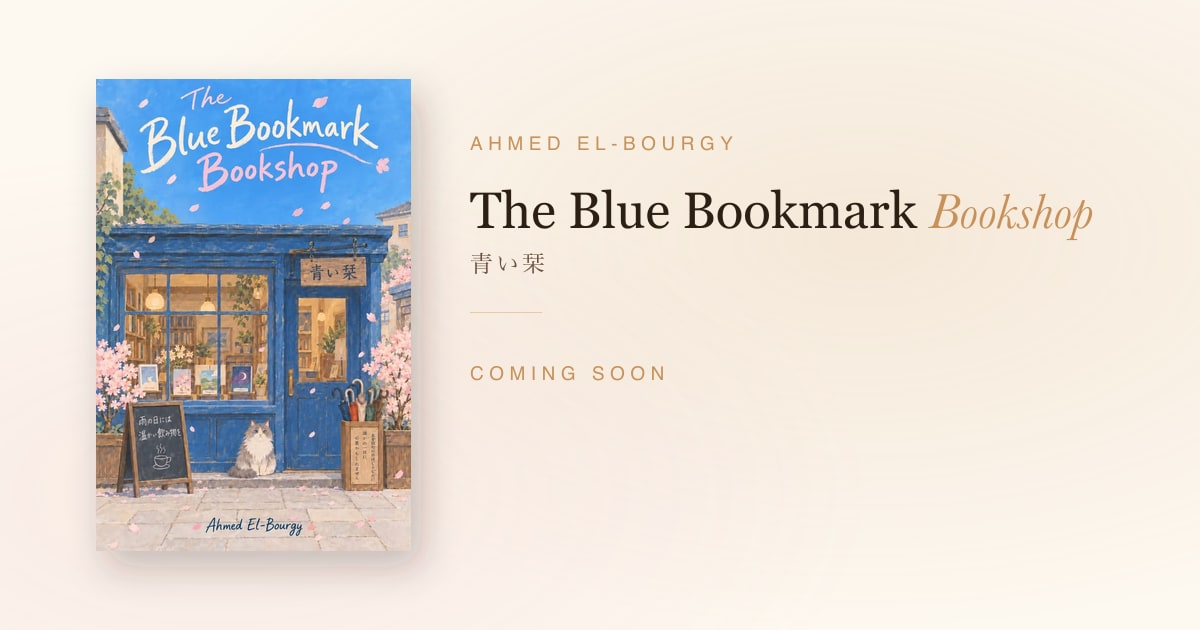
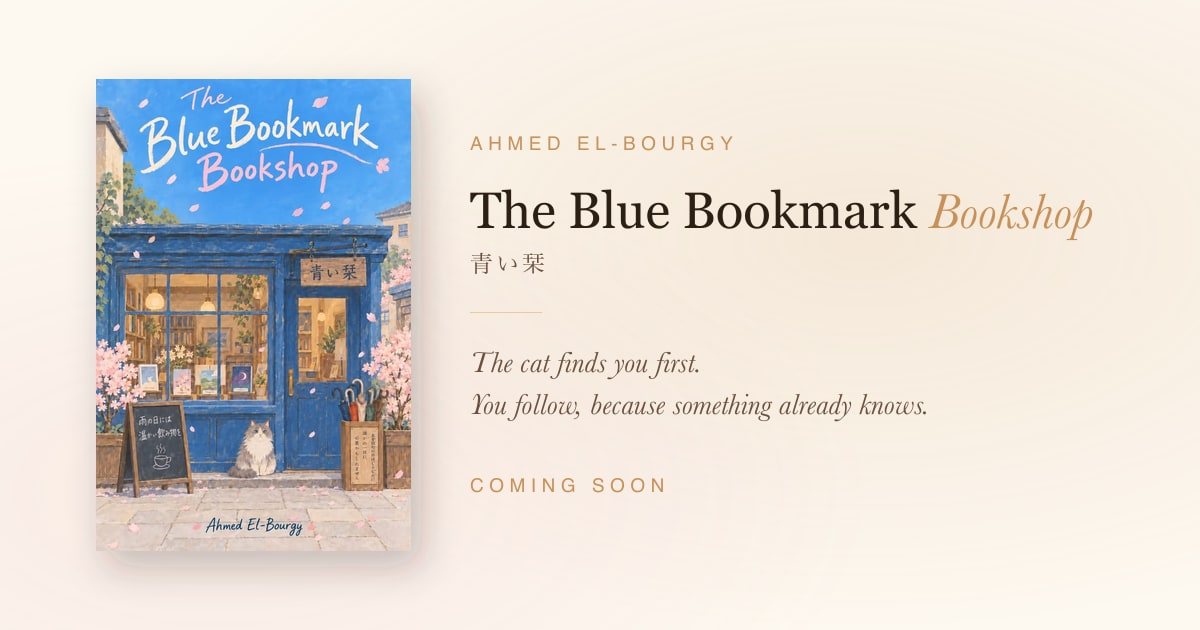
Add the synopsis for The Blue Bookmark Bookshop
The author's text, verbatim, in the four places that were deliberately left
empty: the book page, the card blurbs, the metadata and structured data, and
the ARC email.

- Full synopsis on the book page under "Aoi Shiori"
- Card blurb, the about-page one-liner and the social-card hook are all
  excerpted from it rather than paraphrased
- "Please return the umbrella. Someone else might need their day." closes the
  page, set apart in the book's cobalt. This also corrects the ARC email,
  which had been carrying my own translation of that sign off the cover art.

The ARC email now opens with the attachment and then gives the book's own
words in a quoted block, so the only prose I wrote in it is the logistics:
what is attached, what is being asked, how to open an EPUB, and how to check
the mail really came from him.

One layout note: a sunk initial needs a first paragraph long enough to wrap
around it. This synopsis opens on a single short line, where the sink pushes
the *second* paragraph sideways instead — so that line gets .prose-hook, a
larger display treatment, and the page carries no drop cap. The caveat is
written next to the .prose--lead rule so the next book does not hit it.

Changed region(s): [[0.4008, 0.6333, 0.7708, 0.6635], [0.37, 0.5429, 0.5858, 0.6032], [0.37, 0.754, 0.555, 0.7841]]

diff --git a/the-blue-bookmark-bookshop.html b/the-blue-bookmark-bookshop.html
@@ -5,7 +5,7 @@
 <meta name="viewport" content="width=device-width, initial-scale=1">
 
 <title>The Blue Bookmark Bookshop — coming soon from Ahmed El-Bourgy</title>
-<meta name="description" content="The Blue Bookmark Bookshop (青い栞), the next book from Ahmed El-Bourgy. Coming soon.">
+<meta name="description" content="The Blue Bookmark Bookshop (青い栞) by Ahmed El-Bourgy. A little bookshop that wasn’t there yesterday and won’t be there tomorrow. Coming soon.">
 <meta name="author" content="Ahmed El-Bourgy">
 <meta name="theme-color" content="#fdf8f0">
 <link rel="canonical" href="https://ahmedwalid4499.github.io/my-Author-website/the-blue-bookmark-bookshop.html">
@@ -13,7 +13,7 @@
 <meta property="og:type" content="book">
 <meta property="og:site_name" content="Ahmed El-Bourgy">
 <meta property="og:title" content="The Blue Bookmark Bookshop — coming soon from Ahmed El-Bourgy">
-<meta property="og:description" content="The next book from Ahmed El-Bourgy. Coming soon.">
+<meta property="og:description" content="The cat finds you first. He leads you to Aoi Shiori, a little bookshop that wasn’t there yesterday and won’t be there tomorrow.">
 <meta property="og:url" content="https://ahmedwalid4499.github.io/my-Author-website/the-blue-bookmark-bookshop.html">
 <meta property="og:image" content="https://ahmedwalid4499.github.io/my-Author-website/assets/img/og/og-the-blue-bookmark-bookshop.jpg">
 <meta property="og:image:width" content="1200">
@@ -23,7 +23,7 @@
 
 <meta name="twitter:card" content="summary_large_image">
 <meta name="twitter:title" content="The Blue Bookmark Bookshop — coming soon">
-<meta name="twitter:description" content="The next book from Ahmed El-Bourgy. Coming soon.">
+<meta name="twitter:description" content="The cat finds you first. He leads you to a bookshop that wasn’t there yesterday and won’t be there tomorrow.">
 <meta name="twitter:image" content="https://ahmedwalid4499.github.io/my-Author-website/assets/img/og/og-the-blue-bookmark-bookshop.jpg">
 
 <link rel="icon" href="favicon.ico" sizes="32x32">
@@ -119,6 +119,24 @@
           <span class="book-meta__item"><span class="book-meta__label">Japanese</span> <span class="jp">青い栞</span></span>
         </div>
       </div>
+    </div>
+  </section>
+
+  <!-- ============================================ SYNOPSIS -->
+  <section class="section" aria-labelledby="synopsis-heading">
+    <div class="wrap wrap--mid">
+      <div class="section__head fade-in">
+        <p class="eyebrow">About the book</p>
+        <h2 class="display-2" id="synopsis-heading">Aoi <em>Shiori</em></h2>
+      </div>
+      <p class="prose-hook fade-in">The cat finds you first.</p>
+      <div class="prose fade-in mt-md">
+        <p>Grey and white, one blue eye and one green, and absolutely no patience. He meows once, like an order, and walks away. You follow, because something in you already knows you should.</p>
+        <p>He leads you to Aoi Shiori, a little bookshop that wasn’t there yesterday and won’t be there tomorrow. The light inside is warm. Its owner, Mirai, smiles as if she has been waiting for you all day. And from a sky without a single cloud, it begins to rain.</p>
+        <p>Everyone who finds this place has lost something along the way. A dream. A goodbye. A piece of themselves. Mirai never asks which. She pours you something warm, and before you go, she asks you to take an umbrella from the box by the door.</p>
+        <p>Step beneath it, and the rain falls silent.</p>
+      </div>
+      <p class="pullquote pullquote--center fade-in">Please return the umbrella.<br>Someone else might need their day.</p>
     </div>
   </section>
 
@@ -374,6 +392,7 @@
       "author": { "@id": "https://ahmedwalid4499.github.io/my-Author-website/#person" },
       "inLanguage": "en",
       "image": "https://ahmedwalid4499.github.io/my-Author-website/assets/img/covers/the-blue-bookmark-bookshop-900.jpg",
+      "description": "The cat finds you first. He leads you to Aoi Shiori, a little bookshop that wasn’t there yesterday and won’t be there tomorrow. Everyone who finds this place has lost something along the way.",
       "url": "https://ahmedwalid4499.github.io/my-Author-website/the-blue-bookmark-bookshop.html"
     },
     {

diff --git a/assets/css/site.css b/assets/css/site.css
@@ -1405,6 +1405,22 @@ a { color: var(--gold-deep); }
    sits high and the wrap indents wrongly. Where initial-letter is missing
    (Firefox today) the letter simply renders at text size in the accent
    colour, which is a clean fallback rather than a broken one. */
+/* An opening line that carries a synopsis on its own, where the first
+   paragraph is too short to wrap around a sunk initial. */
+.prose-hook {
+  font-family: var(--font-display);
+  font-size: var(--display-4);
+  font-weight: 400;
+  line-height: 1.5;
+  color: var(--ink);
+  max-width: 32ch;
+}
+
+
+/* Only use .prose--lead where the first paragraph is long enough to wrap
+   around the initial. On a one-line opening the sink pushes the NEXT
+   paragraph sideways instead, which is why the Blue Bookmark synopsis leads
+   with a .lede line rather than a drop cap. */
 .prose--lead > p:first-of-type::first-letter {
   font-family: var(--font-display);
   font-weight: 500;
@@ -1418,6 +1434,21 @@ a { color: var(--gold-deep); }
     margin-inline-end: .09em;
   }
 }
+
+
+/* A pullquote that stands alone rather than running beside prose: centred,
+   with the brushstroke edge replaced by a rule above and below. */
+.pullquote--center {
+  max-width: 34rem;
+  margin: var(--space-lg) auto 0;
+  padding: var(--space-md) 0 0;
+  text-align: center;
+  font-size: var(--text-lg);
+  color: var(--accent-ink, var(--ember));
+  border-top: 1px solid var(--gold-line);
+}
+
+.pullquote--center::before { content: none; }
 
 
 /* 20. Blue Bookmark hero ========================================== */

diff --git a/books.html b/books.html
@@ -211,6 +211,7 @@
             <p class="jp book-card__jp">青い栞</p>
           </a>
           <p class="eyebrow">Coming soon</p>
+          <p class="book-card__blurb">The cat finds you first. He leads you to Aoi Shiori, a little bookshop that wasn’t there yesterday and won’t be there tomorrow. Everyone who finds this place has lost something along the way.</p>
           <a class="text-link" href="the-blue-bookmark-bookshop.html">Read more <span class="text-link__arrow" aria-hidden="true">↗</span><span class="visually-hidden"> about The Blue Bookmark Bookshop</span></a>
         </article>
 
@@ -416,7 +417,7 @@
             "image": "https://ahmedwalid4499.github.io/my-Author-website/assets/img/covers/the-blue-bookmark-bookshop-900.jpg",
             "author": { "@id": "https://ahmedwalid4499.github.io/my-Author-website/#person" },
             "inLanguage": "en",
-            "description": "The next book from Ahmed El-Bourgy. Coming soon."
+            "description": "The cat finds you first. He leads you to Aoi Shiori, a little bookshop that wasn’t there yesterday and won’t be there tomorrow."
           }
         }
       ]

diff --git a/404.html b/404.html
@@ -223,6 +223,7 @@
             <h3 class="book-card__title mt-md">The Blue Bookmark Bookshop</h3>
             <p class="jp book-card__jp">青い栞</p>
           </a>
+          <p class="book-card__blurb">The cat finds you first. He leads you to Aoi Shiori, a little bookshop that wasn’t there yesterday and won’t be there tomorrow. Everyone who finds this place has lost something along the way.</p>
           <a class="text-link" href="/my-Author-website/the-blue-bookmark-bookshop.html">Read more <span class="text-link__arrow" aria-hidden="true">↗</span><span class="visually-hidden"> about The Blue Bookmark Bookshop</span></a>
         </article>
 

diff --git a/from-tomorrow.html b/from-tomorrow.html
@@ -260,6 +260,7 @@
             <h3 class="book-card__title mt-md">The Blue Bookmark Bookshop</h3>
             <p class="jp book-card__jp">青い栞</p>
           </a>
+          <p class="book-card__blurb">The cat finds you first. He leads you to Aoi Shiori, a little bookshop that wasn’t there yesterday and won’t be there tomorrow. Everyone who finds this place has lost something along the way.</p>
           <a class="text-link" href="the-blue-bookmark-bookshop.html">Read more <span class="text-link__arrow" aria-hidden="true">↗</span><span class="visually-hidden"> about The Blue Bookmark Bookshop</span></a>
         </article>
 

diff --git a/index.html b/index.html
@@ -296,6 +296,7 @@
             <h3 class="book-card__title mt-md">The Blue Bookmark Bookshop</h3>
             <p class="jp book-card__jp">青い栞</p>
           </a>
+          <p class="book-card__blurb">The cat finds you first. He leads you to Aoi Shiori, a little bookshop that wasn’t there yesterday and won’t be there tomorrow. Everyone who finds this place has lost something along the way.</p>
           <a class="text-link" href="the-blue-bookmark-bookshop.html">Read more <span class="text-link__arrow" aria-hidden="true">↗</span><span class="visually-hidden"> about The Blue Bookmark Bookshop</span></a>
         </article>
 

diff --git a/sakura-slice-cafe.html b/sakura-slice-cafe.html
@@ -285,6 +285,7 @@
             <h3 class="book-card__title mt-md">The Blue Bookmark Bookshop</h3>
             <p class="jp book-card__jp">青い栞</p>
           </a>
+          <p class="book-card__blurb">The cat finds you first. He leads you to Aoi Shiori, a little bookshop that wasn’t there yesterday and won’t be there tomorrow. Everyone who finds this place has lost something along the way.</p>
           <a class="text-link" href="the-blue-bookmark-bookshop.html">Read more <span class="text-link__arrow" aria-hidden="true">↗</span><span class="visually-hidden"> about The Blue Bookmark Bookshop</span></a>
         </article>
 

diff --git a/the-perfect-sunrise.html b/the-perfect-sunrise.html
@@ -261,6 +261,7 @@
             <h3 class="book-card__title mt-md">The Blue Bookmark Bookshop</h3>
             <p class="jp book-card__jp">青い栞</p>
           </a>
+          <p class="book-card__blurb">The cat finds you first. He leads you to Aoi Shiori, a little bookshop that wasn’t there yesterday and won’t be there tomorrow. Everyone who finds this place has lost something along the way.</p>
           <a class="text-link" href="the-blue-bookmark-bookshop.html">Read more <span class="text-link__arrow" aria-hidden="true">↗</span><span class="visually-hidden"> about The Blue Bookmark Bookshop</span></a>
         </article>
 

diff --git a/when-you-were-there.html b/when-you-were-there.html
@@ -260,6 +260,7 @@
             <h3 class="book-card__title mt-md">The Blue Bookmark Bookshop</h3>
             <p class="jp book-card__jp">青い栞</p>
           </a>
+          <p class="book-card__blurb">The cat finds you first. He leads you to Aoi Shiori, a little bookshop that wasn’t there yesterday and won’t be there tomorrow. Everyone who finds this place has lost something along the way.</p>
           <a class="text-link" href="the-blue-bookmark-bookshop.html">Read more <span class="text-link__arrow" aria-hidden="true">↗</span><span class="visually-hidden"> about The Blue Bookmark Bookshop</span></a>
         </article>
 

diff --git a/about.html b/about.html
@@ -246,6 +246,7 @@
             <h3 class="book-card__title mt-md">The Blue Bookmark Bookshop</h3>
             <p class="jp book-card__jp">青い栞</p>
           </a>
+          <p class="book-card__blurb">A bookshop that wasn’t there yesterday and won’t be there tomorrow.</p>
           <a class="text-link" href="the-blue-bookmark-bookshop.html">Read more <span class="text-link__arrow" aria-hidden="true">↗</span><span class="visually-hidden"> about The Blue Bookmark Bookshop</span></a>
         </article>
 
